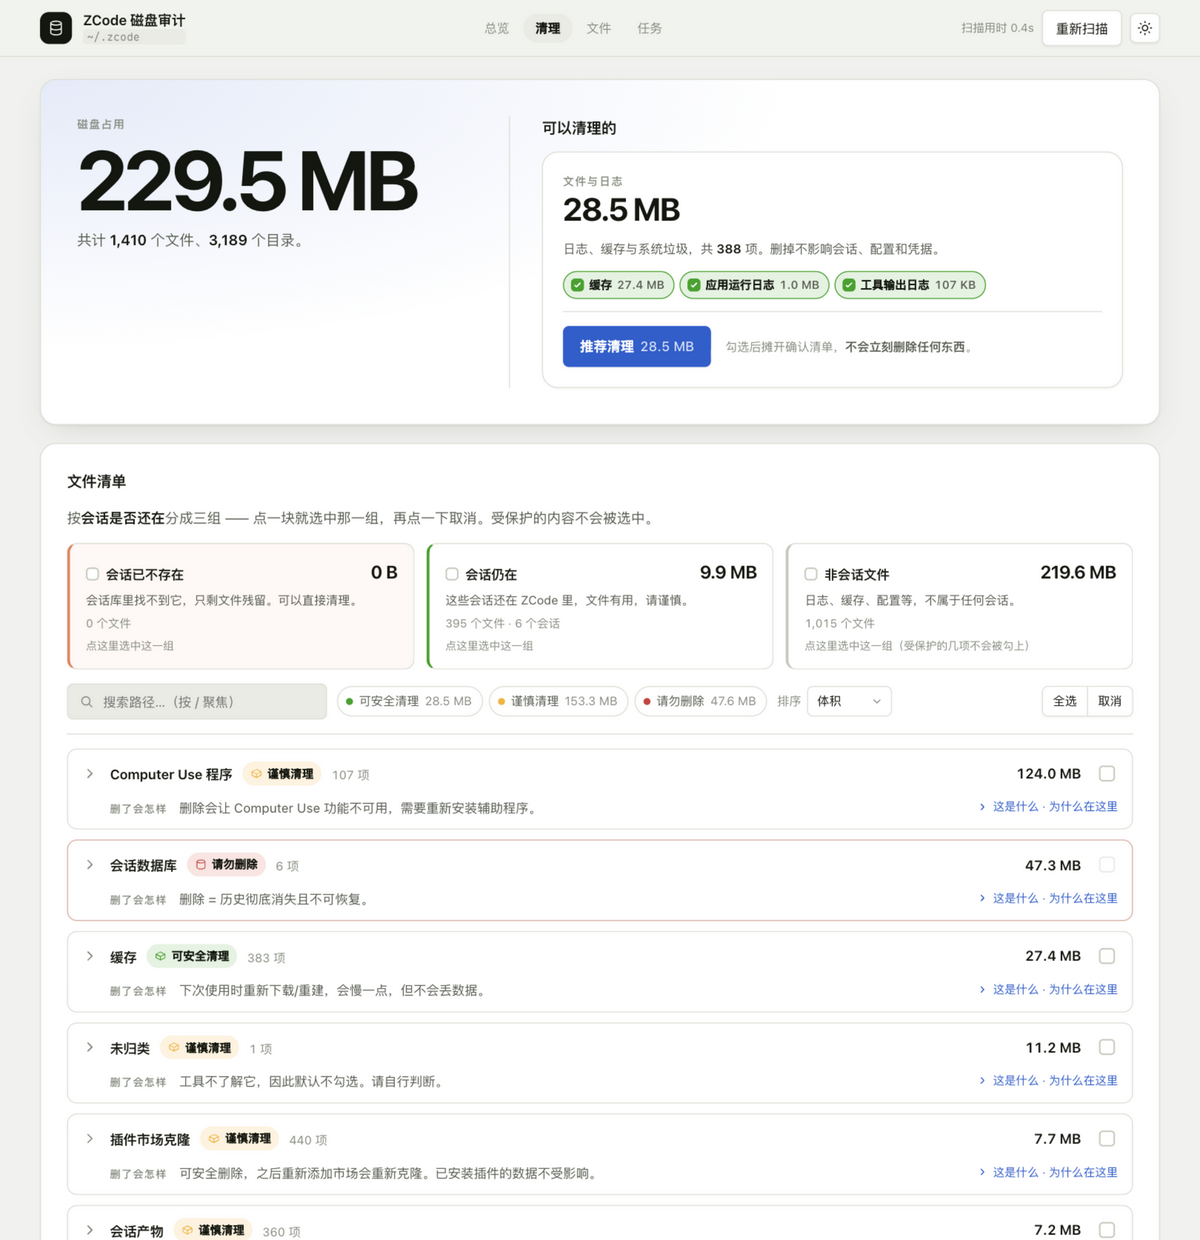
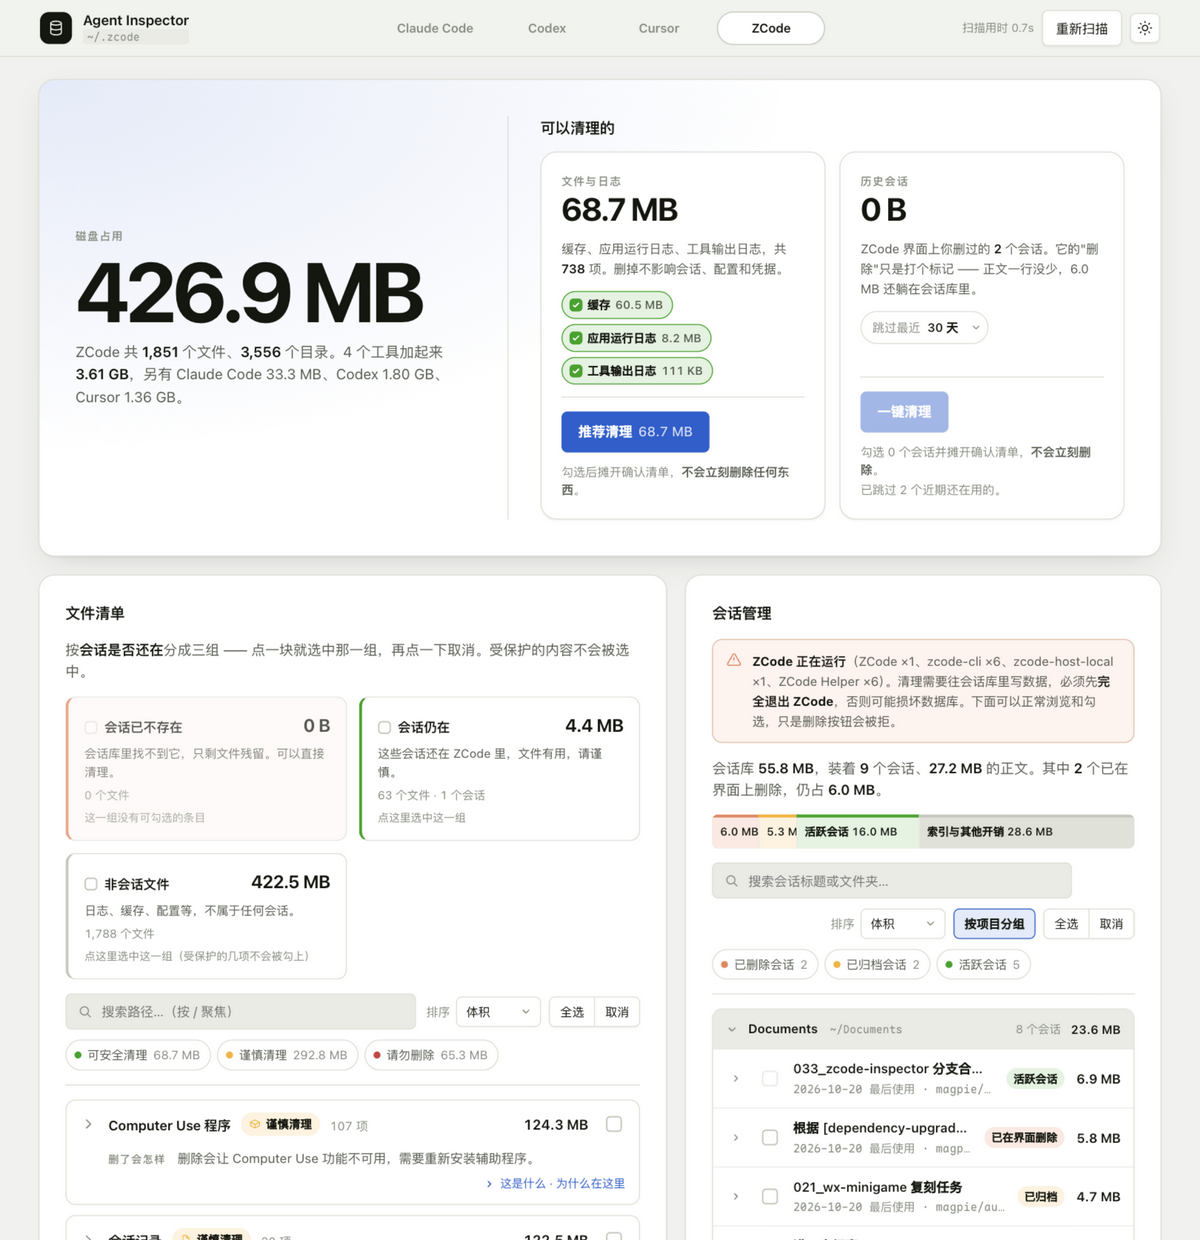
界面：hero 左栏不再留一大块空白；README 首屏图换新
- .lanes 的两栏下限从 330px 降到 278px。hero 右栏在常见宽度下只有 584px，
  两栏要 674px 才排得下，于是永远退化成上下堆叠，把左栏那一行数字孤零零
  留在 300px 的空白里。实测 hero 高度 621px → 477px，无内容溢出，
  420px 窄屏仍是单列。
- 宽屏下左栏垂直居中：那一栏本来就只有"总量 + 一句出处"，align-items:start
  把高度差全丢在左下角，看着像块没填满的版面。
- README 首屏图是 10-10 的单工具版本，换了四工具的实际截图并改写 alt。
- 清掉「五张分类表」「五个工具」—— Gemini 移除后的遗留措辞。
- README 的 unknown 判据与测试清单跟着更新。

diff --git a/public/style.css b/public/style.css
@@ -223,7 +223,7 @@ p { margin: 0; }
 
 /* ── 工具切换 ───────────────────────────────────────────── */
 
-/* 五个工具并排，装了没、各占多少一眼看完。
+/* 四个工具并排，装了没、各占多少一眼看完。
    没装的那一个压暗但仍然可点 —— 有时人就是想进去确认它真的没落盘。
    标签住在 header 里：切工具是换这一页在读谁，不是页面内的一个段落。 */
 .app-tabs {
@@ -369,7 +369,10 @@ p { margin: 0; }
   .hero {
     display: grid;
     grid-template-columns: minmax(300px, 400px) minmax(0, 1fr);
-    align-items: start;
+    /* 左栏只有"总量 + 一句出处"，右栏叠着两条清理线 —— 高度差被
+       align-items:start 全丢在左下角，看着像块没填满的版面。
+       居中让留白摊到上下两边，读起来是"这栏就这么多内容"，不是"少画了东西"。 */
+    align-items: center;
     gap: 0 32px;
   }
   .hero > .clean {
@@ -389,9 +392,13 @@ p { margin: 0; }
   letter-spacing: -.01em;
 }
 
+/* 两条清理线够宽就并排。330px 这个下限太贪：hero 右栏在常见宽度下只有
+   584px，两栏要 674px 才排得下，于是永远退化成上下堆叠，把左栏那一行数字
+   孤零零留在 300px 的空白里。278px 仍能放下 chip 与按钮（最长的
+   「旧版本运行时 641.4 MB」也在里面），换来的是一整块空白消失。 */
 .lanes {
   display: grid;
-  grid-template-columns: repeat(auto-fit, minmax(330px, 1fr));
+  grid-template-columns: repeat(auto-fit, minmax(278px, 1fr));
   gap: 14px;
 }
 
